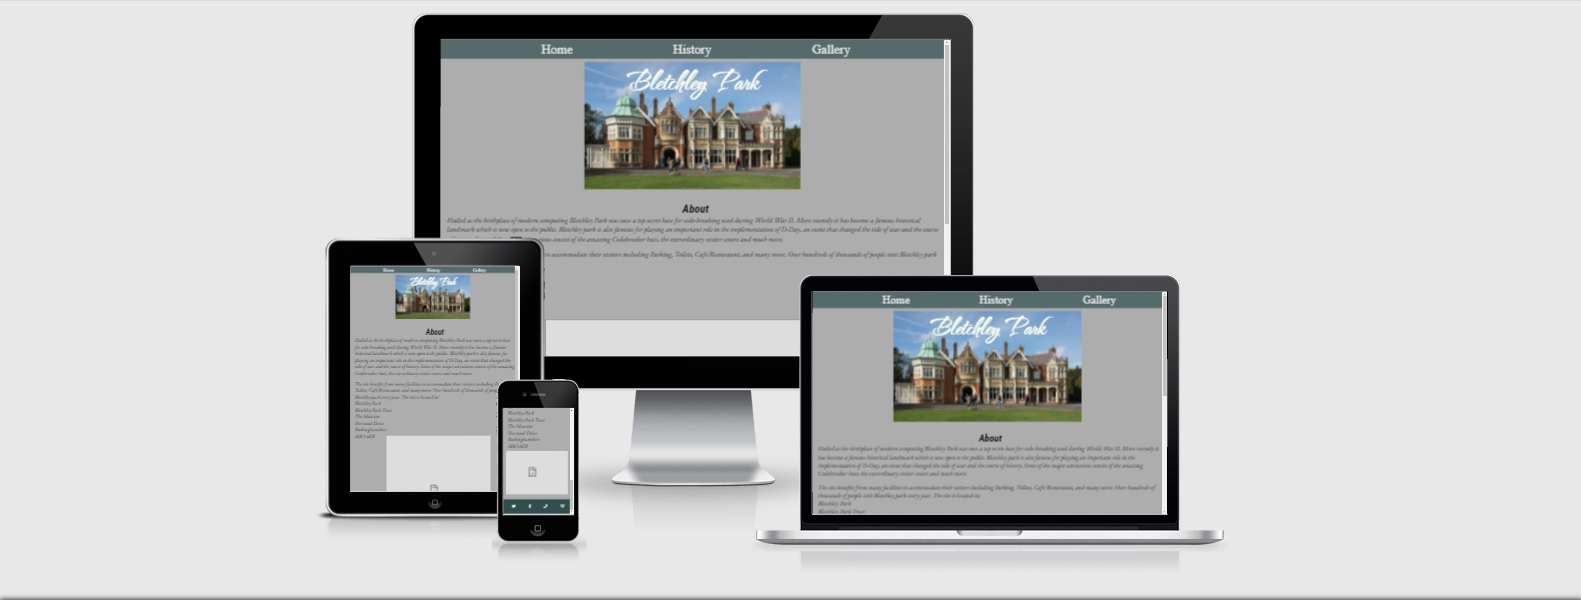
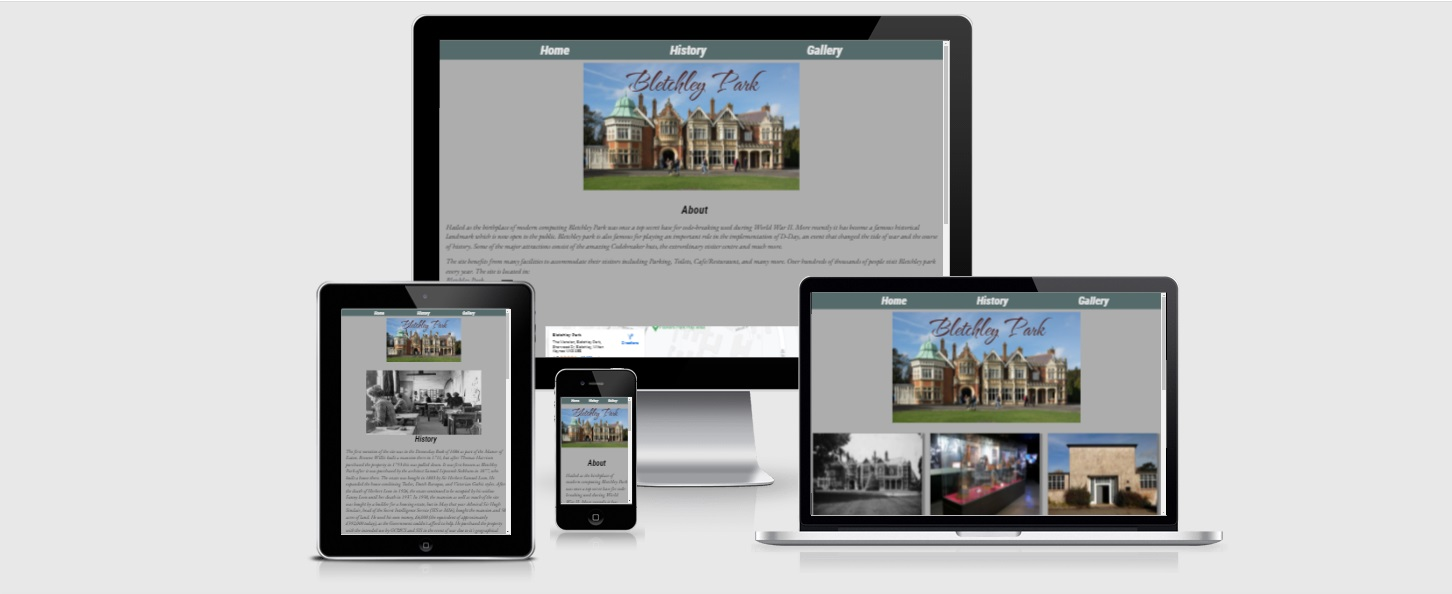
Add images for table in user story testing in README.md

diff --git a/assets/css/style.css b/assets/css/style.css
@@ -26,9 +26,8 @@ header{
     font-size: 40px;
     font-weight: 200;
     text-decoration: none;
-    margin-left: 20%;
+    padding-left: 20%;
     float: left;
-    display: block;
     font-family: 'Roboto Condensed', sans-serif;
 }
 
@@ -79,6 +78,7 @@ p {
 iframe {
     width: 65%;
     height: 500px;
+    border: 2px solid lightslategrey;
     float: right;
     margin-right: 15%;
     margin-top: 10px;

diff --git a/README.md b/README.md
@@ -106,7 +106,7 @@ The website was designed to be a simple website with a simple layout that can ac
 ### Color
 
 For the color schemes in this project I used a website called <a href="https://colorate.azurewebsites.net">colorate.azurewebsites</a> to mix and match the color that I wanted.
-<img src="">
+<img src="docs/features/featcolor.jpg">
 
 ### Fonts
 
@@ -267,91 +267,119 @@ The website was tested on the browsers listed below:
 |-------------|------------|---------------------|-------------------|
 | Webpages | View website | To be neat | Works as expected |
 <details><summary>Screenshots</summary>
-<img src=""></details>
+<img src="docs/ustesting/ustest1.jpg"></details>
 
 2. I expect to be able to navigate to other pages easily.
 
 | **Feature** | **Action** | **Expected Result** | **Actual Result** |
 |-------------|------------|---------------------|-------------------|
-| Navigation bar | Navigate to the top of any page. | All page links should work | Works as expected |
+| Navigation bar | Scroll up to the top of any page. | All page links should work | Works as expected |
+<details><summary>Screenshots</summary>
+<img src="docs/ustesting/ustest2.jpg"></details>
 
 3. I expect to learn about what makes Bletchley Park special.
 
 | **Feature** | **Action** | **Expected Result** | **Actual Result** |
 |-------------|------------|---------------------|-------------------|
 | History | Navigate to the history page | Find relevant info | Works as expected |
+<details><summary>Screenshots</summary>
+<img src="docs/ustesting/ustest3.jpg"></details>
 
 4. I expect to be a locate Bletchley Park.
 
 | **Feature** | **Action** | **Expected Result** | **Actual Result** |
 |-------------|------------|---------------------|-------------------|
 | Homepage | Navigate to Homepage and scroll down | Find embedded map | Works as expected |
+<details><summary>Screenshots</summary>
+<img src="docs/ustesting/ustest4.jpg"></details>
 
 5. I expect to be able to contact Bletchley Park.
 
 | **Feature** | **Action** | **Expected Result** | **Actual Result** |
 |-------------|------------|---------------------|-------------------|
 | Footer | Scroll down to the bottom the page and find the phone icon | Clicking icon takes you to official site | Works as expected |
+<details><summary>Screenshots</summary>
+<img src="docs/ustesting/ustest5.jpg"></details>
 
 6. I expect to be able to learn all about Bletchley Park's history.
 
 | **Feature** | **Action** | **Expected Result** | **Actual Result** |
 |-------------|------------|---------------------|-------------------|
 | History Page | Navigate to history page and scroll down | Find all relevant info | Works as expected |
+<details><summary>Screenshots</summary>
+<img src="docs/ustesting/ustest6.jpg"></details>
 
 7. I expect to be able to share my interest via social media.
 
 | **Feature** | **Action** | **Expected Result** | **Actual Result** |
 |-------------|------------|---------------------|-------------------|
 | Footer | Scroll to the bottom of any page | Clicking icons takes you to external sites | Works as expected |
+<details><summary>Screenshots</summary>
+<img src="docs/ustesting/ustest7.jpg"></details>
 
 8. I want to be able to find information that I had previously seen without complications.
 
 | **Feature** | **Action** | **Expected Result** | **Actual Result** |
 |-------------|------------|---------------------|-------------------|
 | Website | Navigate through the site | Find all relevant info hassle free | Works as expected |
+<details><summary>Screenshots</summary>
+<img src="docs/ustesting/ustest8.jpg"></details>
 
 9. I expect the information to be relevant and up to date.
 
 | **Feature** | **Action** | **Expected Result** | **Actual Result** |
 |-------------|------------|---------------------|-------------------|
 | Website | Navigate through site and check information | Info should be up to date | Works as expected |
+<details><summary>Screenshots</summary>
+<img src="docs/ustesting/ustest9.jpg"></details>
 
 10. I expect to be able to review the map.
 
 | **Feature** | **Action** | **Expected Result** | **Actual Result** |
 |-------------|------------|---------------------|-------------------|
 | Map | Scroll down on the homepage | Find embedded map | Works as expected |
+<details><summary>Screenshots</summary>
+<img src="docs/ustesting/ustest10.jpg"></details>
 
 11. I expect to be able to find out if, how and when I can visit.
 
 | **Feature** | **Action** | **Expected Result** | **Actual Result** |
 |-------------|------------|---------------------|-------------------|
 | Footer | Scroll to the bottom of any page and click on phone icon | Takes you to official site | Works as expected |
+<details><summary>Screenshots</summary>
+<img src="docs/ustesting/ustest11.jpg"></details>
 
 12. I want users to be able to navigate through the site effortlessley.
 
 | **Feature** | **Action** | **Expected Result** | **Actual Result** |
 |-------------|------------|---------------------|-------------------|
 | website | Navigate through website | Everything should be easy locate | Works as expected |
+<details><summary>Screenshots</summary>
+<img src="docs/ustesting/ustest12.jpg"></details>
 
 13. I want users to be able to understand the information given.
 
 | **Feature** | **Action** | **Expected Result** | **Actual Result** |
 |-------------|------------|---------------------|-------------------|
 | Website | Navigate through site | Information should be easy to understand | Works as expected |
+<details><summary>Screenshots</summary>
+<img src="docs/ustesting/ustest13.jpg"></details>
 
 14. I want users to feel interested even a little when they leave.
 
 | **Feature** | **Action** | **Expected Result** | **Actual Result** |
 |-------------|------------|---------------------|-------------------|
 | Gallery, History pages | Naviagte to pages and scroll | Find descriptions and images. | Works as expected |
+<details><summary>Screenshots</summary>
+<img src="docs/ustesting/ustest14.jpg"></details>
 
 15. I want users to be able to visually see a living part of history.
 
 | **Feature** | **Action** | **Expected Result** | **Actual Result** |
 |-------------|------------|---------------------|-------------------|
 | Gallery | Naviagte to gallery page and scroll | Find images of attractions | Works as expected |
+<details><summary>Screenshots</summary>
+<img src="docs/ustesting/ustest15.jpg"></details>
 
 ## Bugs
 
